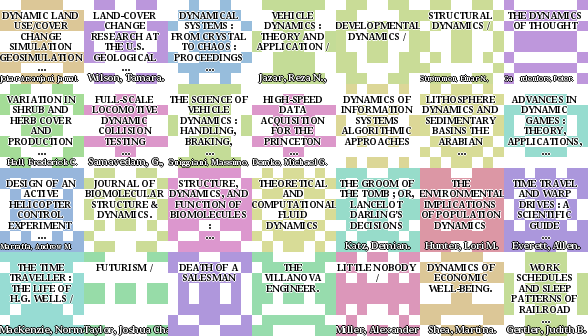
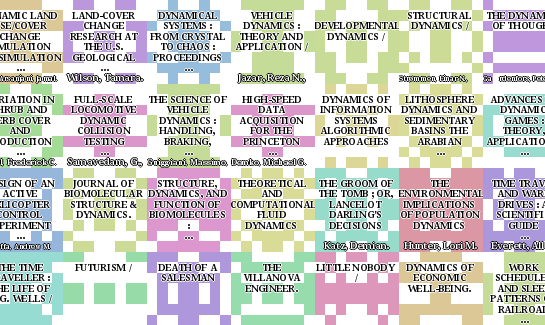
Update dynamic cover image.

diff --git a/index.html b/index.html
@@ -56,7 +56,7 @@ layout: default
           </div>
         </div>
         <div class="item">
-          <img class="stretch" src="images/transparent.png" style="background-image:url('images/dynamic_cover.png');box-shadow:inset 0 0 60px rgba(0,0,0,.3)" alt="">
+          <img src="images/dynamic_cover.png" alt="">
           <div class="carousel-caption">
             Dynamically-Generated Covers
           </div>

diff --git a/_site/index.html b/_site/index.html
@@ -78,7 +78,7 @@
           </div>
         </div>
         <div class="item">
-          <img class="stretch" src="images/transparent.png" style="background-image:url('images/dynamic_cover.png');box-shadow:inset 0 0 60px rgba(0,0,0,.3)" alt="">
+          <img src="images/dynamic_cover.png" alt="">
           <div class="carousel-caption">
             Dynamically-Generated Covers
           </div>

diff --git a/_site/less/style.less b/_site/less/style.less
@@ -118,12 +118,6 @@ p {line-height:22px;text-align:left;text-indent:2em}
     img {
       max-height:325px;
       margin:0 auto;
-      &.stretch {
-        background-position:center center;
-        margin:-1px 0 0 -1px;
-        width:100%;
-        height:274px;
-      }
     }
   }
 }

diff --git a/less/style.less b/less/style.less
@@ -118,12 +118,6 @@ p {line-height:22px;text-align:left;text-indent:2em}
     img {
       max-height:325px;
       margin:0 auto;
-      &.stretch {
-        background-position:center center;
-        margin:-1px 0 0 -1px;
-        width:100%;
-        height:274px;
-      }
     }
   }
 }

diff --git a/_site/less/style.css b/_site/less/style.css
@@ -6355,12 +6355,6 @@ p {
   max-height: 325px;
   margin: 0 auto;
 }
-.carousel .item img.stretch {
-  background-position: center center;
-  margin: -1px 0 0 -1px;
-  width: 100%;
-  height: 274px;
-}
 .content {
   color: #FFF;
   padding: 20px;

diff --git a/_site/style.css b/_site/style.css
@@ -6355,12 +6355,6 @@ p {
   max-height: 325px;
   margin: 0 auto;
 }
-.carousel .item img.stretch {
-  background-position: center center;
-  margin: -1px 0 0 -1px;
-  width: 100%;
-  height: 274px;
-}
 .content {
   color: #FFF;
   padding: 20px;

diff --git a/style.css b/style.css
@@ -6355,12 +6355,6 @@ p {
   max-height: 325px;
   margin: 0 auto;
 }
-.carousel .item img.stretch {
-  background-position: center center;
-  margin: -1px 0 0 -1px;
-  width: 100%;
-  height: 274px;
-}
 .content {
   color: #FFF;
   padding: 20px;
